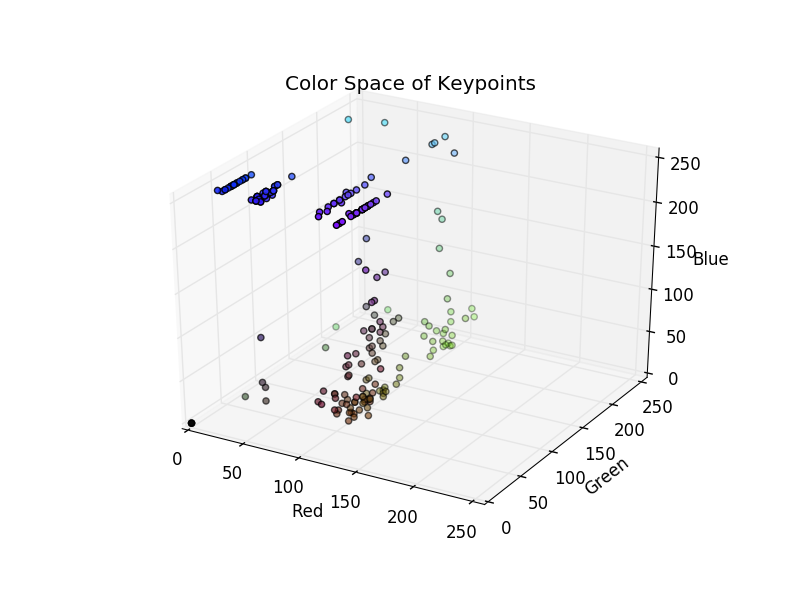
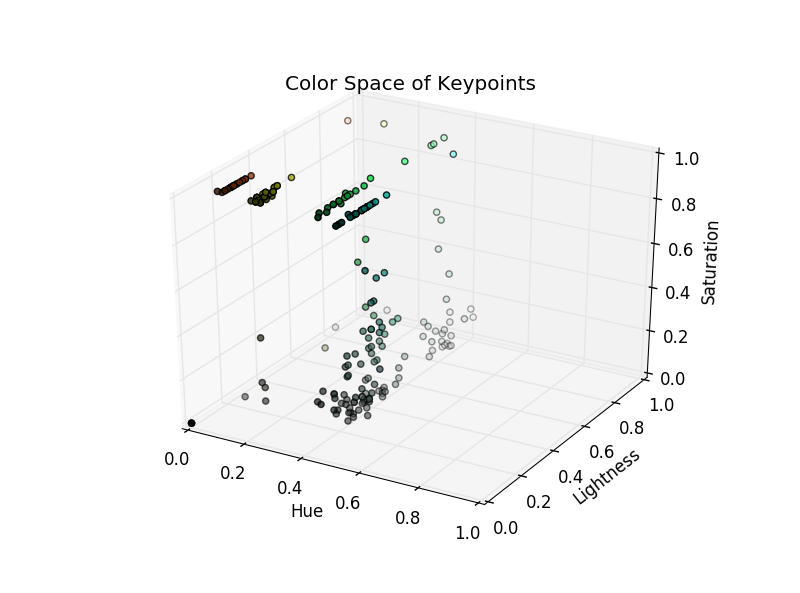
Implemented Otsu method for adaptive thresholding of Canny Edge detector

diff --git a/Hold Detection/2D Space/holdDetector.py b/Hold Detection/2D Space/holdDetector.py
@@ -68,9 +68,19 @@ def findHolds(img):
     # color of each hold to make it more uniform.
     blur = cv2.medianBlur(img,11)
 
+    # Using Otsu's method, the optimal threshold for the image can be found.
+    gray = cv2.cvtColor(blur,cv2.COLOR_BGR2GRAY)
+    otsu, _ = cv2.threshold(gray,0,255,cv2.THRESH_BINARY+cv2.THRESH_OTSU)
+
+
+
     # Applys edge detection to find the borders between the hold and the wall
-    # This should be modified to adapt to different settings.
-    edges = cv2.Canny(blur,100,250)
+    # Note: Otsu's threshold is normal intended to be used as the higher 
+    #   threshold. However, better results have been found from the opposite.
+    #   The recommended ratio of 1:2 is still maintained. L2gradient is 
+    #   included for more precise results.
+    edges = cv2.Canny(blur,otsu,otsu * 2, L2gradient = True)
+
 
     # Finds the contours of the image, without retaining the hierarchy
     contours, _ = cv2.findContours(edges,cv2.RETR_LIST,cv2.CHAIN_APPROX_SIMPLE)
@@ -86,12 +96,11 @@ def findHolds(img):
     mask = np.zeros(img.shape,np.uint8)
     cv2.drawContours(mask,hulls,-1,[255,0,0])
 
+    """
     #######################################
     #OpenCV uses BGR format, so that'll need to be reversed for display
     imsho = edges
     cv2.imshow("Edges",edges)
-
-
 
     mas = np.zeros(img.shape,np.uint8)
     cv2.drawContours(mas,cnt,-1,[255,0,0])
@@ -110,6 +119,7 @@ def findHolds(img):
     plt.title("Hulls")
     fig = plt.figure()
     #######################################
+    """
 
     # Set up the detector with default parameters.
     detector = buildDetector()
@@ -193,30 +203,37 @@ def draw(img, keypoints):
 
 
 def plotColors(colors):
+
+    # Build 3D scatterplot
     fig = plt.figure()
     ax = fig.add_subplot(111, projection='3d')
-    ax.scatter([], [], [], c=[0,0,0], marker='o')
+    
+    # Initialize arrays
+    hs = []
+    ls = []
+    ss = []
 
-
-    rs = []
-    gs = []
-    bs = []
+    # Color data is mapped between 0 and 1
+    colors = colors/256
 
     for color in colors:
-        rs.append(color[0])
-        gs.append(color[1])
-        bs.append(color[2])
+        hs.append(color[0])
+        ls.append(color[1])
+        ss.append(color[2])
 
+    # Regain RGB Values to color each data point
+    colorsRGB = map(colorsys.hls_to_rgb,hs,ls,ss) 
 
-    ax.scatter(rs, gs, bs, c=colors/256.0, marker='o')
+    # Plot points in HLS space
+    ax.scatter(hs, ls, ss, c=colorsRGB, marker='o')
 
-    ax.set_xlabel('Red')
-    ax.set_ylabel('Green')
-    ax.set_zlabel('Blue')
+    ax.set_xlabel('Hue')
+    ax.set_ylabel('Lightness')
+    ax.set_zlabel('Saturation')
 
-    ax.set_xlim(0,255)
-    ax.set_ylim(0,255)
-    ax.set_zlim(0,255)
+    ax.set_xlim(0,1)
+    ax.set_ylim(0,1)
+    ax.set_zlim(0,1)
 
     plt.title("Color Space of Keypoints")
     plt.show()
